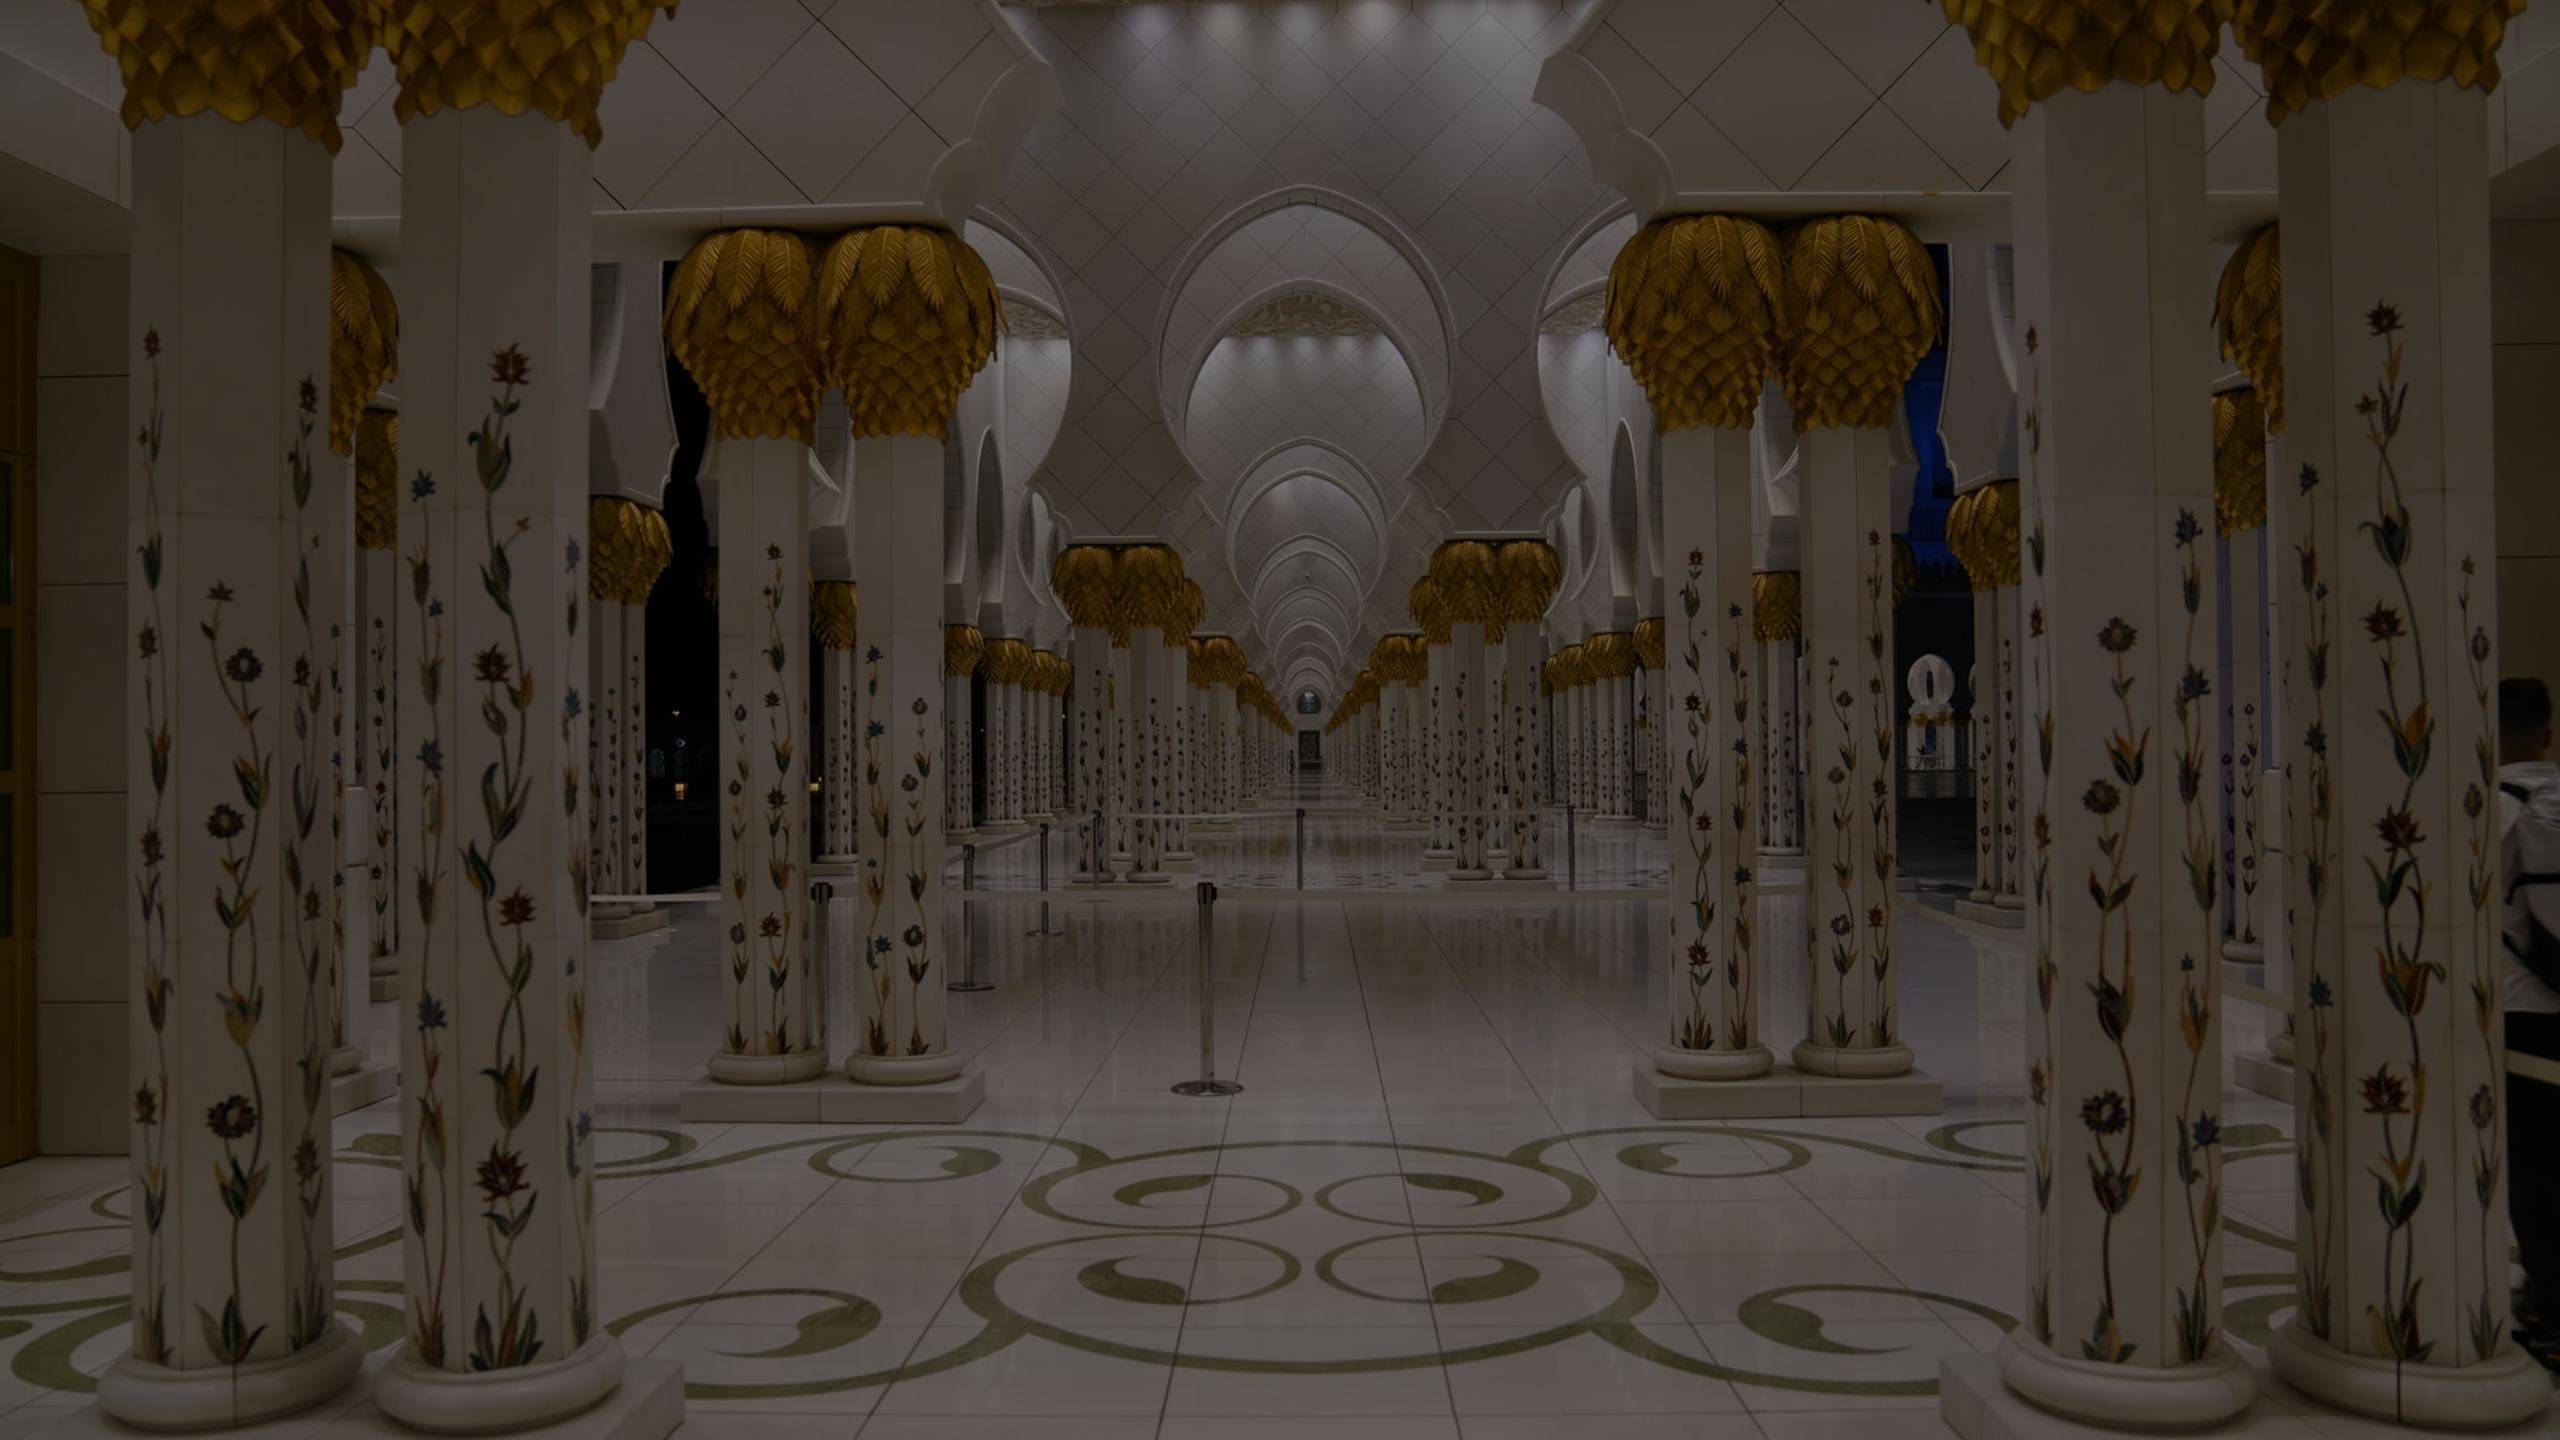
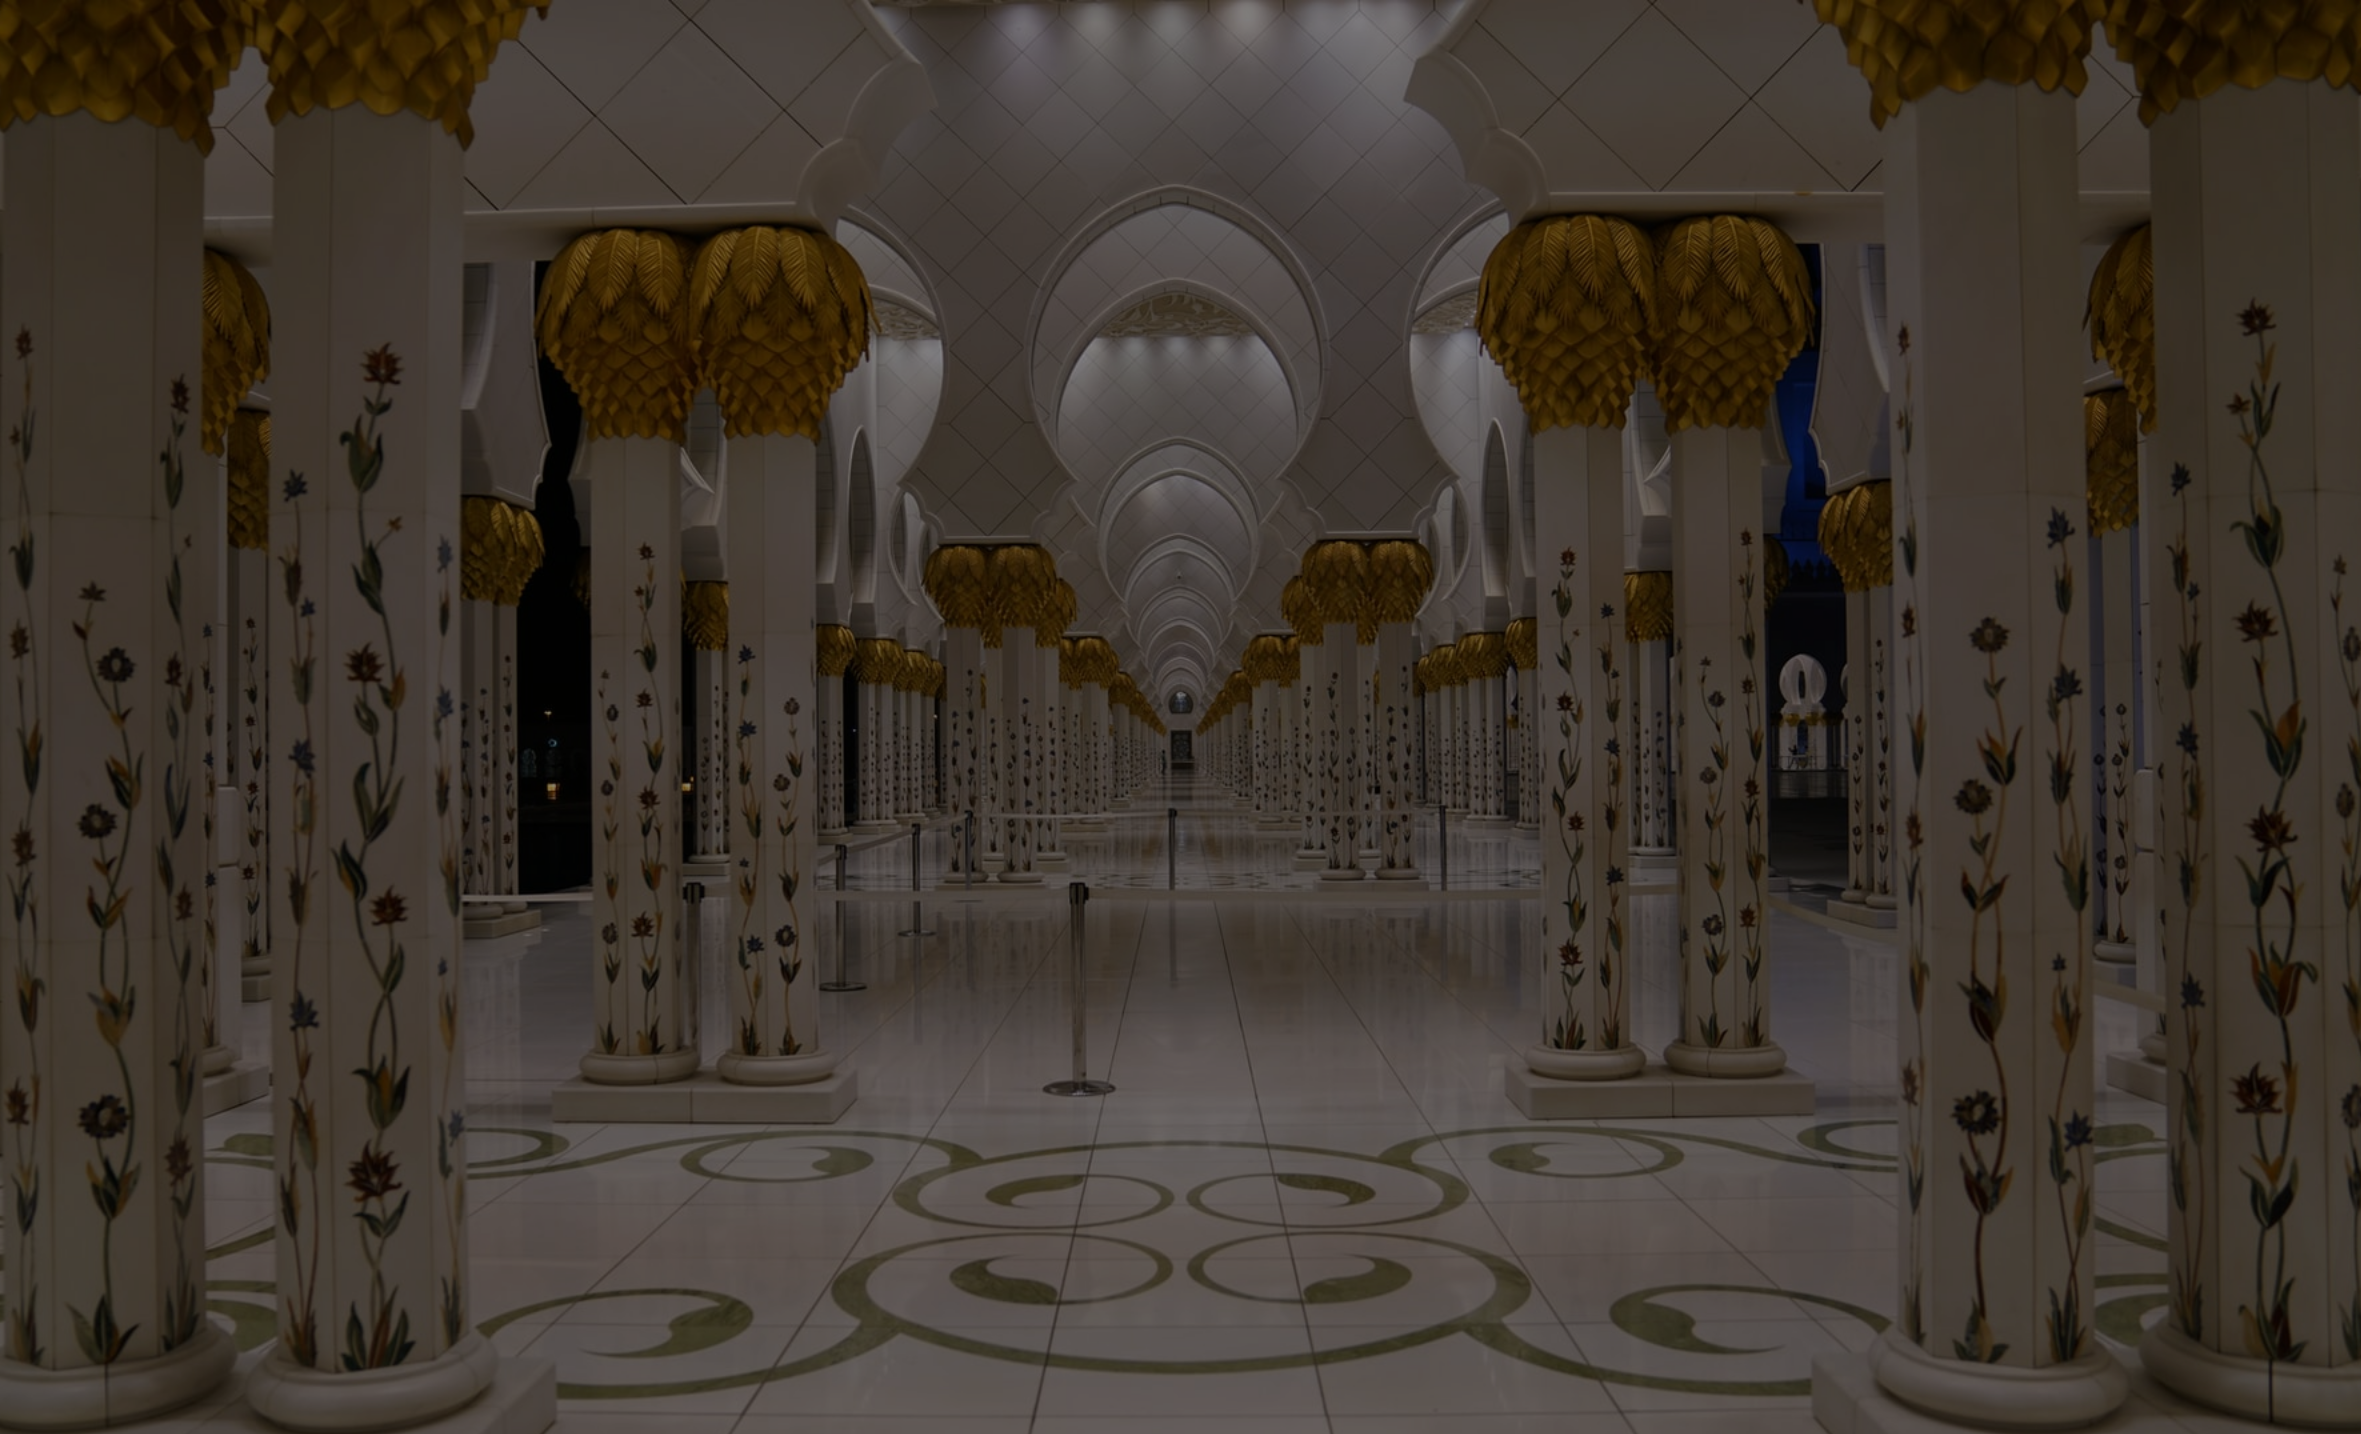
editing the home background image

diff --git a/public/index.html b/public/index.html
@@ -1,5 +1,5 @@
 <!DOCTYPE html>
-<html lang="en">
+<html lang="en" dir="rtl">
 <head>
     <meta charset="UTF-8">
     <meta http-equiv="X-UA-Compatible" content="IE=edge">
@@ -27,6 +27,7 @@
                     <li class="link-item"><a href="#contact">CONTACT</a></li>
                 </ul>
             </nav>
+            
             <!-- I don't know what his job is XD -->
             <button class="header-btn">DONATE</button>
         </div>
@@ -41,7 +42,8 @@
                     <h1 class="section-title">Join The Path Of<br/> Spirituality</h1>
 
                     <p class="section-description">Lorem ipsum dolor sit amet consectetur adipisicing elit. Explicabo est suscipit consectetur non vitae lorem.</p>
-    
+                    
+                    <!-- I don't know what his job is XD -->
                     <button class="home-btn">LEARN MORE</button>
                 </div>
 

diff --git a/assets/css/style.css b/assets/css/style.css
@@ -101,8 +101,8 @@ header{
     height: var(--header-height);
     position: sticky;
     top: 0;
-    background-color: #fff;
     z-index: 2;
+    background-color: #fff;
     box-shadow: 1px 1px 15px var(--dark-color);
 }
 
@@ -138,7 +138,7 @@ header .container{
 /* Home Style */
 #home{
     height: var(--home-height);
-    background-image: url('../img/home.png');
+    background-image: url('../img/home2.png');
     background-size: cover;
 }
 
